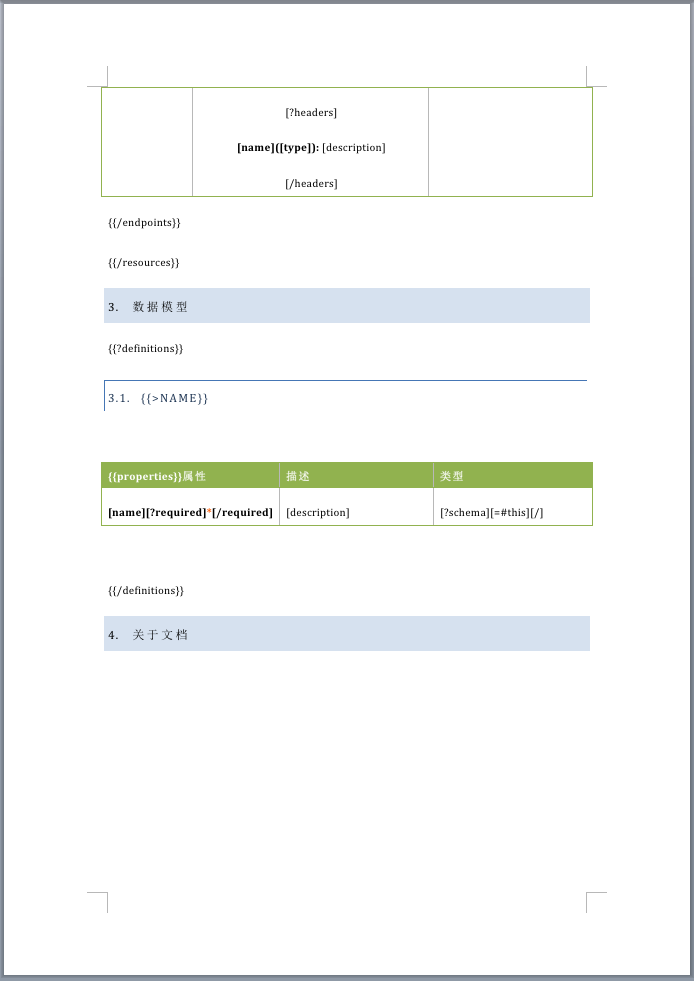
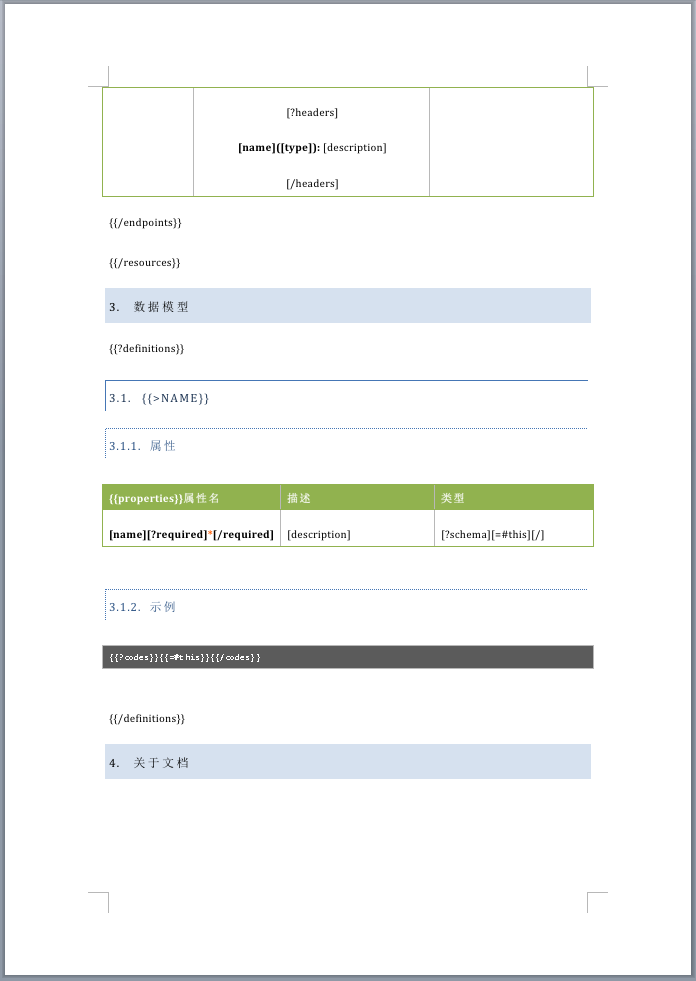
update swagger example

diff --git a/index.html b/index.html
@@ -495,7 +495,7 @@ body.book #toc,body.book #preamble,body.book h1.sect0,body.book .sect1>h2{page-b
 <ul class="sectlevel2">
 <li><a href="#_软件说明文档">8.1. 软件说明文档</a></li>
 <li><a href="#example-table">8.2. 付款通知书</a></li>
-<li><a href="#example-okr">8.3. OKR目标制定</a></li>
+<li><a href="#example-okr">8.3. 目标制定</a></li>
 <li><a href="#example-resume">8.4. 个人简历</a></li>
 <li><a href="#example-swagger">8.5. Swagger文档</a></li>
 </ul>
@@ -2727,7 +2727,7 @@ XWPFTemplate template = XWPFTemplate.compile(resource, config).render(
 </div>
 </div>
 <div class="sect2">
-<h3 id="example-okr"><a class="anchor" href="#example-okr"></a><a class="link" href="#example-okr">8.3. OKR目标制定</a></h3>
+<h3 id="example-okr"><a class="anchor" href="#example-okr"></a><a class="link" href="#example-okr">8.3. 目标制定</a></h3>
 <div class="exampleblock">
 <div class="content">
 <div class="paragraph">
@@ -2854,11 +2854,16 @@ XWPFTemplate template = XWPFTemplate.compile(resource, config).render(
 <div class="content">
 <div class="paragraph">
 <div class="title">output</div>
-<p>这是一份非常专业的Swagger Word文档，样式优雅且有着清晰完整的文档结构，接口需要循环展示，接口的参数需要循环展示，接口的返回值需要循环展示，数据类型支持锚点到具体的模型。点击<a href="example/example_swagger_output.png" target="_blank" rel="noopener">查看大图</a>，下载最终生成的文件<a href="example/swagger.docx">swagger.docx</a></p>
+<p>这是一份非常专业的Swagger Word文档，样式优雅且有着清晰完整的文档结构，接口需要循环展示，接口的参数需要循环展示，接口的返回值需要循环展示，数据类型支持锚点到具体的模型，模型支持代码块高亮展示。下载最终生成的文件<a href="example/swagger.docx">swagger.docx</a></p>
 </div>
 <div class="imageblock" style="text-align: center">
 <div class="content">
 <img src="example/example_swagger_output.png" alt="example swagger output">
+</div>
+</div>
+<div class="imageblock" style="text-align: center">
+<div class="content">
+<img src="example/example_swagger_output2.png" alt="example swagger output2">
 </div>
 </div>
 </div>
@@ -2867,7 +2872,7 @@ XWPFTemplate template = XWPFTemplate.compile(resource, config).render(
 <div class="content">
 <div class="paragraph">
 <div class="title">template</div>
-<p>使用区块对标签完成所有循环功能，可以完美的支持有序和多级列表，表格使用 <code>HackLoopTableRenderPolicy</code> 插件的约定，可以非常方便的完成参数、返回值和数据模型表格的渲染，使用Spring表达式来支持丰富的条件判断。</p>
+<p>使用区块对标签完成所有循环功能，可以完美的支持有序和多级列表；表格使用 <code>HackLoopTableRenderPolicy</code> 插件的约定，可以非常方便的完成参数、返回值和数据模型表格的渲染；使用Spring表达式来支持丰富的条件判断；代码块高亮只需要使用拥有不同样式文本的集合循环展示即可。</p>
 </div>
 <div class="imageblock" style="text-align: center">
 <div class="content">
